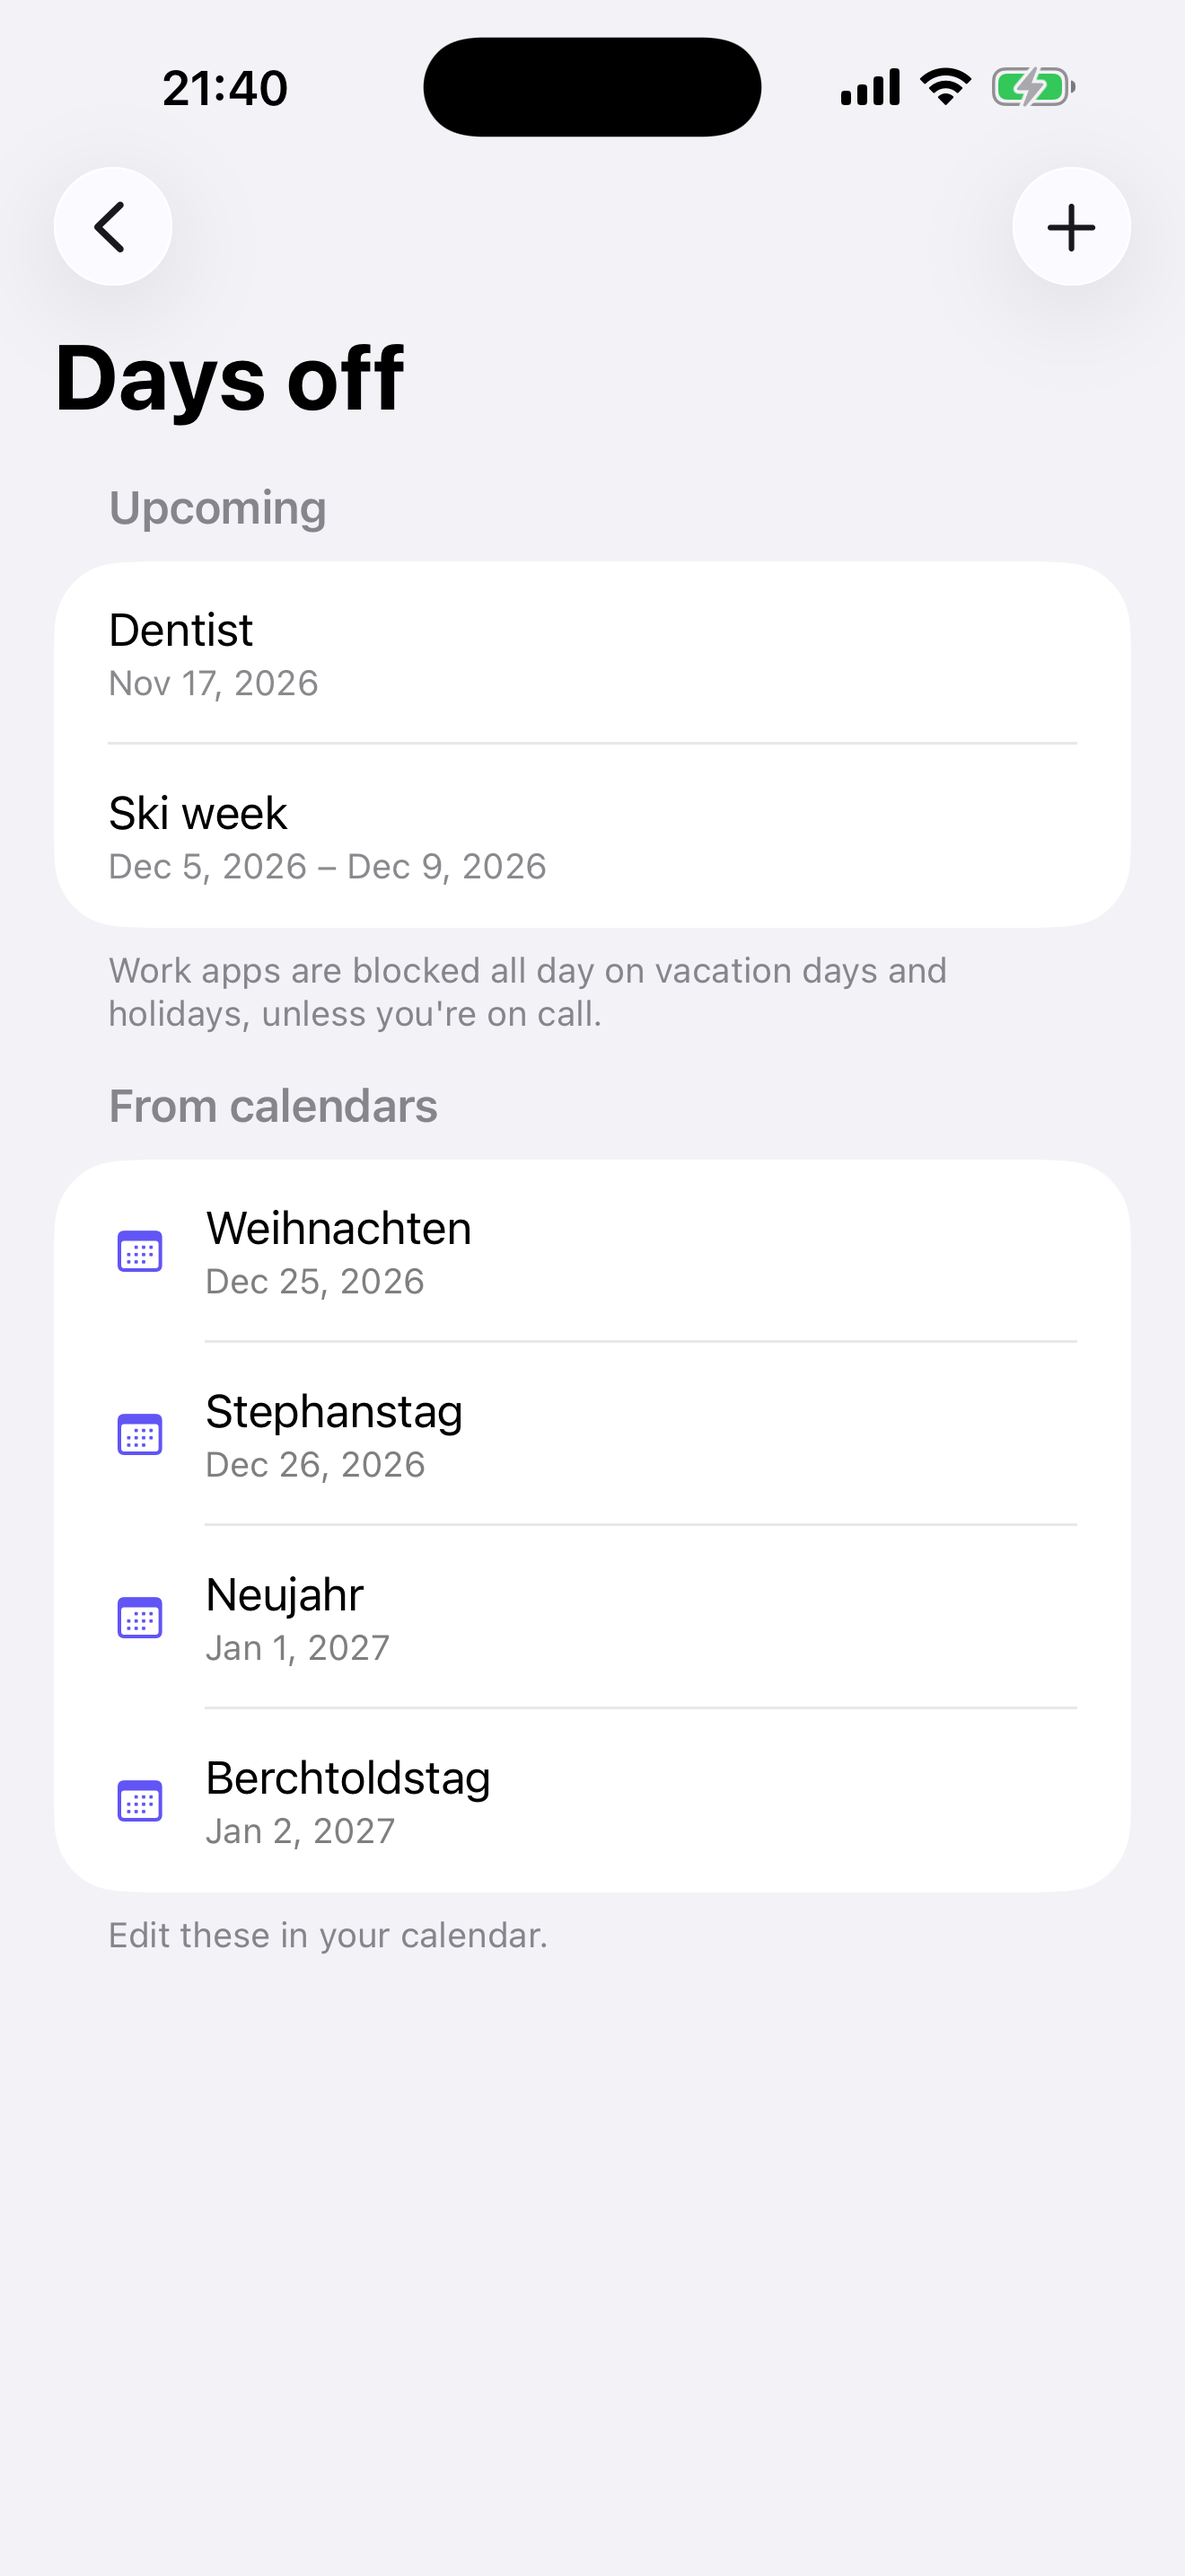
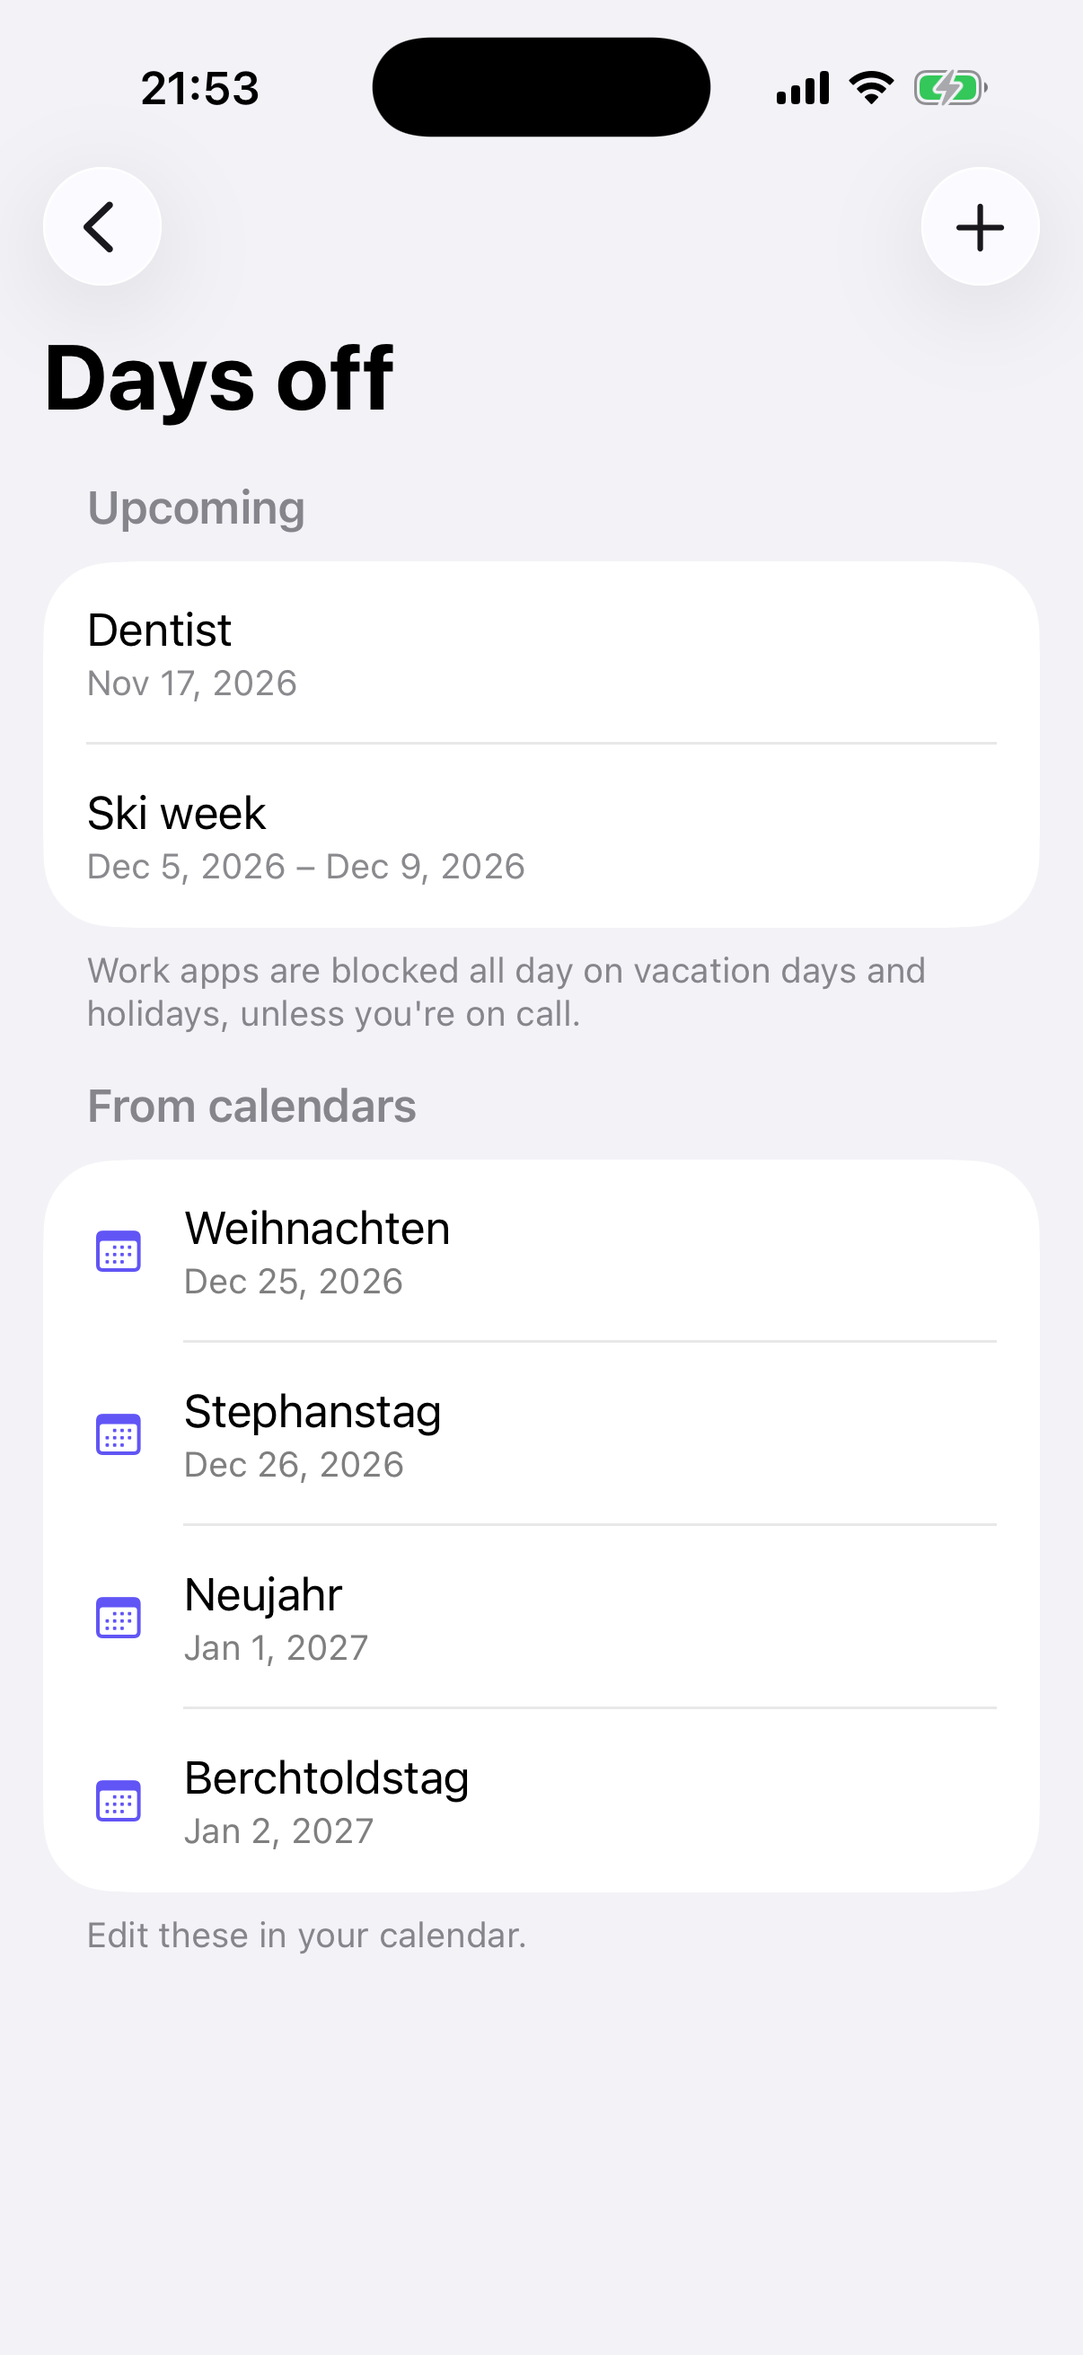
Take App Store screenshots at 1206x2622 (iPhone with Dynamic Island)

diff --git a/appstore/README.md b/appstore/README.md
@@ -15,7 +15,7 @@ reviewed and reused. App Store Connect has the live version.
 | Copyright | `copyright.txt` |
 | App Review notes | `review-notes.txt` |
 | Category | Productivity, secondary Utilities |
-| iPhone 6.9" screenshots | `../screenshots/appstore/` (`npm run screenshots`) |
+| iPhone screenshots (1206×2622, "iPhone with Dynamic Island") | `../screenshots/appstore/` (`npm run screenshots`) |
 | Header (3840×1646) | `marketing/header-3840x1646.png` |
 | Search results (1920×1280) | `marketing/search-results-1920x1280.png` |
 
